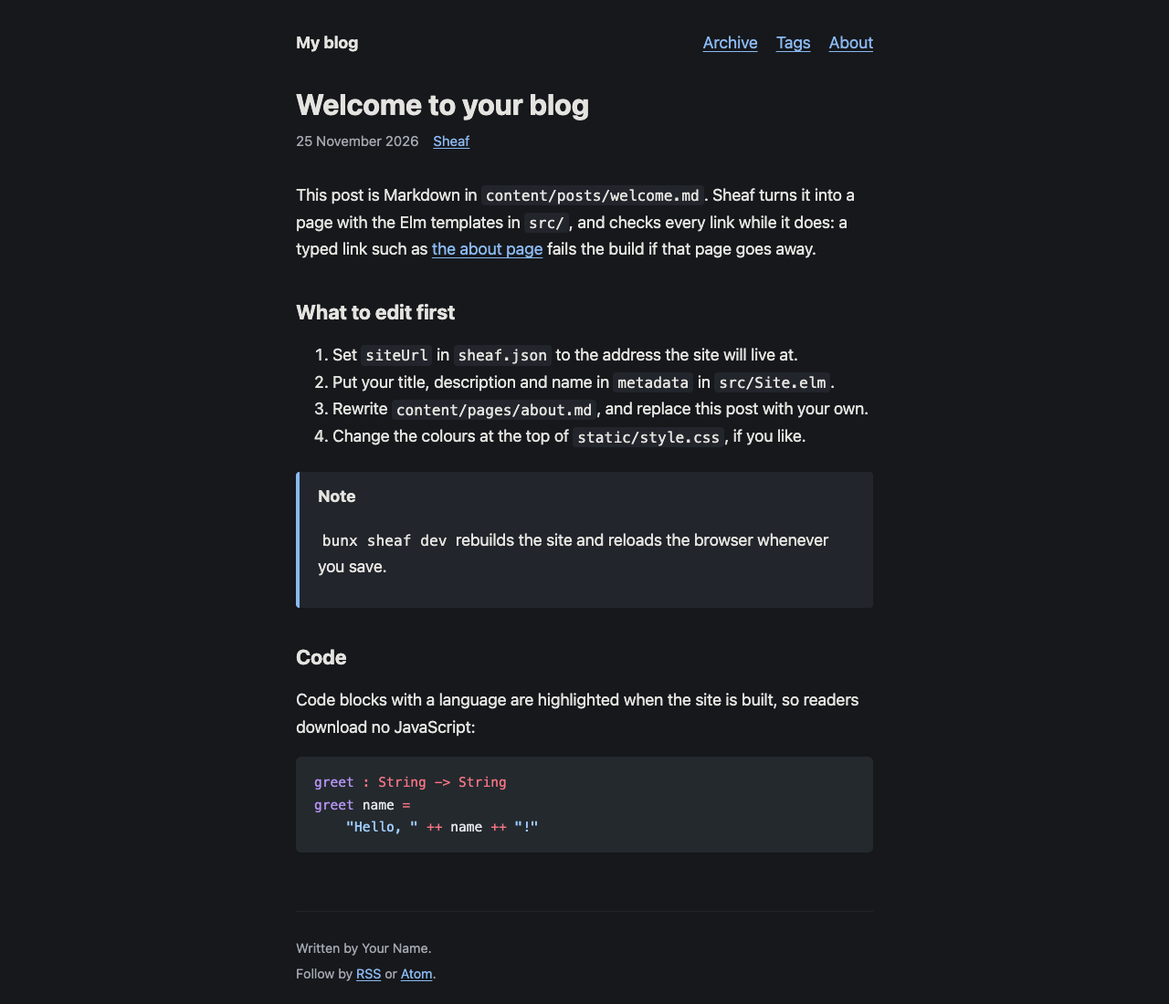
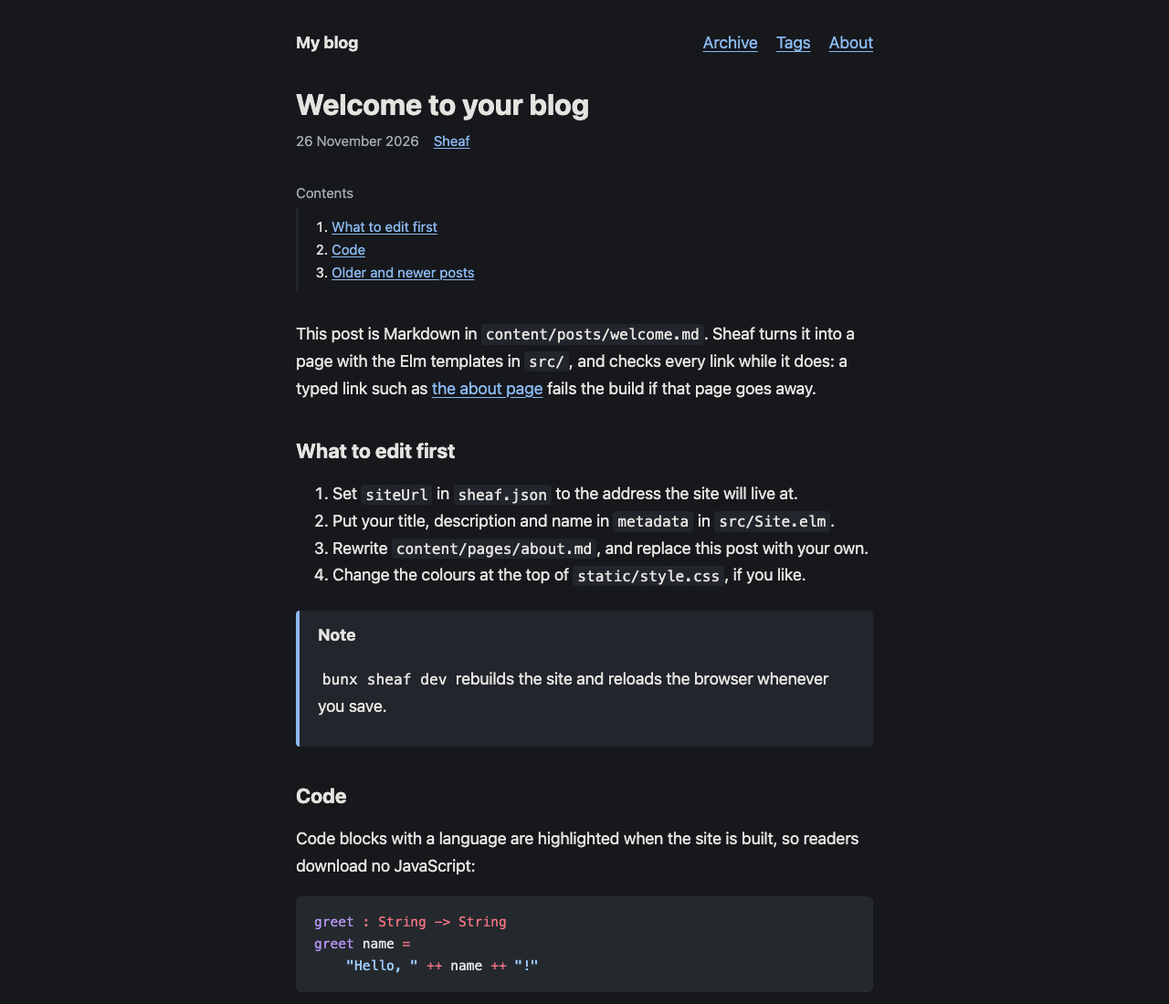
feat(starter): contents, neighbours and heading links
A post with three or more h2 and h3 headings starts with a table of contents,
each h3 under its h2, and every post ends with links to the older and newer
post. A heading's `#` link shows when the heading is hovered or the link has
focus, and always on touch screens.

diff --git a/cli/src/init/starter.generated.ts b/cli/src/init/starter.generated.ts
@@ -17,7 +17,7 @@ export const STARTER: ReadonlyMap<string, string> = new Map([
   ["content/posts/.gitkeep", ""],
   [
     "content/posts/welcome.md",
-    '---\ntitle: Welcome to your blog\ndate: {{today}}\nsummary: What\'s here, and what to change first.\ntags: [Sheaf]\n---\n\nThis post is Markdown in `content/posts/welcome.md`. Sheaf turns it into a\npage with the Elm templates in `src/`, and checks every link while it does: a\ntyped link such as [the about page](pages:about) fails the build if that page\ngoes away.\n\n## What to edit first\n\n1. Set `siteUrl` in `sheaf.json` to the address the site will live at.\n2. Put your title, description and name in `metadata` in `src/Site.elm`.\n3. Rewrite `content/pages/about.md`, and replace this post with your own.\n4. Change the colours at the top of `static/style.css`, if you like.\n\n:::callout{kind=note}\n`bunx sheaf dev` rebuilds the site and reloads the browser whenever you save.\n:::\n\n## Code\n\nCode blocks with a language are highlighted when the site is built, so readers\ndownload no JavaScript:\n\n```elm\ngreet : String -> String\ngreet name =\n    "Hello, " ++ name ++ "!"\n```\n',
+    '---\ntitle: Welcome to your blog\ndate: {{today}}\nsummary: What\'s here, and what to change first.\ntags: [Sheaf]\n---\n\nThis post is Markdown in `content/posts/welcome.md`. Sheaf turns it into a\npage with the Elm templates in `src/`, and checks every link while it does: a\ntyped link such as [the about page](pages:about) fails the build if that page\ngoes away.\n\n## What to edit first\n\n1. Set `siteUrl` in `sheaf.json` to the address the site will live at.\n2. Put your title, description and name in `metadata` in `src/Site.elm`.\n3. Rewrite `content/pages/about.md`, and replace this post with your own.\n4. Change the colours at the top of `static/style.css`, if you like.\n\n:::callout{kind=note}\n`bunx sheaf dev` rebuilds the site and reloads the browser whenever you save.\n:::\n\n## Code\n\nCode blocks with a language are highlighted when the site is built, so readers\ndownload no JavaScript:\n\n```elm\ngreet : String -> String\ngreet name =\n    "Hello, " ++ name ++ "!"\n```\n\n## Older and newer posts\n\nA post with three or more sections, like this one, starts with a list of them,\nand every post ends with links to the posts written before and after it. Each\nheading has a `#` link to itself, shown when you point at the heading, for\nsharing one section.\n',
   ],
   ["gitignore", ".sheaf/\ndist/\nelm-stuff/\nnode_modules/\n"],
   ["sheaf.json", '{ "siteUrl": "https://example.com/" }\n'],
@@ -35,7 +35,7 @@ export const STARTER: ReadonlyMap<string, string> = new Map([
   ],
   [
     "src/Theme/Pages.elm",
-    'module Theme.Pages exposing\n    ( Post, Titled\n    , post, page, index, tag, tags, archive, notFound\n    )\n\n{-| A template for each kind of page the blog has.\n\nThe templates ask only for the frontmatter they show, so `Site.elm` can decode\nmore fields without changing them.\n\n@docs Post, Titled\n@docs post, page, index, tag, tags, archive, notFound\n\n-}\n\nimport Sheaf\nimport Sheaf.Blog as Blog\nimport Sheaf.Date as Date exposing (Date)\nimport Sheaf.Document exposing (Document)\nimport Sheaf.Head as Head\nimport Sheaf.Html exposing (Html, a, article, h1, h2, header, li, nav, ol, p, span, text, time, ul)\nimport Sheaf.Html.Attributes exposing (attribute, class, datetime, href, siteHref)\nimport Sheaf.Image as Image\nimport Sheaf.Route exposing (Group, Listing, Page, Pagination)\nimport Theme.Layout as Layout\nimport Time\n\n\n{-| The frontmatter of a post, as these templates read it.\n-}\ntype alias Post meta =\n    { meta | title : String, summary : Maybe String, tags : List String }\n\n\n{-| The frontmatter of a page, as these templates read it.\n-}\ntype alias Titled meta =\n    { meta | title : String }\n\n\n\n-- PAGES\n\n\n{-| A post, at `/posts/<slug>/`.\n-}\npost : Sheaf.Metadata -> Document (Post meta) -> Page\npost site document =\n    Layout.view site\n        { title = titled site document.meta.title\n        , description = Maybe.withDefault site.description document.meta.summary\n        , head = [ preview document ]\n        , body =\n            [ article [ class "post" ]\n                (header []\n                    [ h1 [] [ text document.meta.title ]\n                    , p [ class "byline" ] (published document :: tagLinks document.meta.tags)\n                    ]\n                    :: cover document\n                    :: document.body\n                )\n            ]\n        }\n\n\n{-| A page from `content/pages/`, at `/<slug>/`.\n-}\npage : Sheaf.Metadata -> Document (Titled meta) -> Page\npage site document =\n    Layout.view site\n        { title = titled site document.meta.title\n        , description = site.description\n        , head = []\n        , body = [ article [] (h1 [] [ text document.meta.title ] :: document.body) ]\n        }\n\n\n{-| The newest posts, at `/`, then `/page/2/` and on.\n-}\nindex : Sheaf.Metadata -> Listing (Post meta) -> Page\nindex site { items, pagination } =\n    let\n        ( title, heading ) =\n            if pagination.page == 1 then\n                ( site.title, "Latest posts" )\n\n            else\n                let\n                    paged : String\n                    paged =\n                        "Posts, page " ++ String.fromInt pagination.page ++ " of " ++ String.fromInt pagination.pages\n                in\n                ( titled site paged, paged )\n    in\n    Layout.view site\n        { title = title\n        , description = site.description\n        , head = []\n        , body = [ h1 [] [ text heading ], postList items, pageLinks pagination ]\n        }\n\n\n{-| The posts with one tag, at `/tags/<tag>/`.\n-}\ntag : Sheaf.Metadata -> String -> Listing (Post meta) -> Page\ntag site name { items, pagination } =\n    Layout.view site\n        { title = titled site ("Posts tagged " ++ name)\n        , description = "Posts tagged " ++ name ++ " on " ++ site.title ++ "."\n        , head = []\n        , body = [ h1 [] [ text ("Posts tagged " ++ name) ], postList items, pageLinks pagination ]\n        }\n\n\n{-| Every tag, at `/tags/`.\n-}\ntags : Sheaf.Metadata -> List (Group (Post meta)) -> Page\ntags site groups =\n    Layout.view site\n        { title = titled site "Tags"\n        , description = "Every tag on " ++ site.title ++ "."\n        , head = []\n        , body =\n            [ h1 [] [ text "Tags" ]\n            , ul [ class "tag-index" ] (List.map tagEntry groups)\n            ]\n        }\n\n\n{-| Every post, at `/archive/`.\n-}\narchive : Sheaf.Metadata -> List (Document (Post meta)) -> Page\narchive site items =\n    Layout.view site\n        { title = titled site "Archive"\n        , description = "Every post on " ++ site.title ++ "."\n        , head = []\n        , body =\n            [ h1 [] [ text "Archive" ]\n            , ol [ class "archive" ] (List.map archiveEntry items)\n            ]\n        }\n\n\n{-| The page shown for any address with no page.\n-}\nnotFound : Sheaf.Metadata -> Page\nnotFound site =\n    Layout.view site\n        { title = titled site "Page not found"\n        , description = site.description\n        , head = []\n        , body =\n            [ h1 [] [ text "Page not found" ]\n            , p [] [ text "Nothing lives at this address. Try the ", a [ siteHref "/" ] [ text "home page" ], text "." ]\n            ]\n        }\n\n\n\n-- PARTS\n\n\ntitled : Sheaf.Metadata -> String -> String\ntitled site name =\n    name ++ " · " ++ site.title\n\n\npreview : Document (Post meta) -> Head.Tag\npreview document =\n    Head.openGraph\n        { title = document.meta.title\n        , description = document.meta.summary\n        , image = Maybe.map Image.src document.image\n        , kind =\n            case document.date of\n                Just date ->\n                    Head.Article { published = date, modified = document.updated }\n\n                Nothing ->\n                    Head.Website\n        }\n\n\ncover : Document meta -> Html\ncover document =\n    case document.image of\n        Just image ->\n            -- The cover is at the top of the page, where lazy loading only delays it.\n            Image.view [ attribute "loading" "eager" ] image\n\n        Nothing ->\n            text ""\n\n\npostList : List (Document (Post meta)) -> Html\npostList items =\n    if List.isEmpty items then\n        p [] [ text "No posts yet." ]\n\n    else\n        ol [ class "post-list" ] (List.map postSummary items)\n\n\npostSummary : Document (Post meta) -> Html\npostSummary item =\n    li []\n        [ h2 [] [ Sheaf.link item.ref [ text item.meta.title ] ]\n        , published item\n        , case item.meta.summary of\n            Just summary ->\n                p [] [ text summary ]\n\n            Nothing ->\n                text ""\n        ]\n\n\narchiveEntry : Document (Post meta) -> Html\narchiveEntry item =\n    li [] [ published item, Sheaf.link item.ref [ text item.meta.title ] ]\n\n\ntagLinks : List String -> List Html\ntagLinks names =\n    List.map (\\name -> span [ class "tag" ] [ Blog.tagLink name [ text name ] ]) names\n\n\ntagEntry : Group (Post meta) -> Html\ntagEntry group =\n    li []\n        [ Blog.tagLink group.name [ text group.name ]\n        , text (" (" ++ String.fromInt (List.length group.items) ++ ")")\n        ]\n\n\npublished : Document meta -> Html\npublished document =\n    case document.date of\n        Just date ->\n            time [ datetime (Date.toIsoDate date) ] [ text (longDate date) ]\n\n        Nothing ->\n            text ""\n\n\n{-| Such as "2 January 2026".\n-}\nlongDate : Date -> String\nlongDate date =\n    String.fromInt (Date.day date) ++ " " ++ monthName (Date.month date) ++ " " ++ String.fromInt (Date.year date)\n\n\nmonthName : Time.Month -> String\nmonthName month =\n    case month of\n        Time.Jan ->\n            "January"\n\n        Time.Feb ->\n            "February"\n\n        Time.Mar ->\n            "March"\n\n        Time.Apr ->\n            "April"\n\n        Time.May ->\n            "May"\n\n        Time.Jun ->\n            "June"\n\n        Time.Jul ->\n            "July"\n\n        Time.Aug ->\n            "August"\n\n        Time.Sep ->\n            "September"\n\n        Time.Oct ->\n            "October"\n\n        Time.Nov ->\n            "November"\n\n        Time.Dec ->\n            "December"\n\n\npageLinks : Pagination -> Html\npageLinks pagination =\n    if pagination.pages <= 1 then\n        text ""\n\n    else\n        nav [ class "pagination", attribute "aria-label" "Pages" ]\n            [ pageLink "Newer posts" pagination.previous\n            , pageLink "Older posts" pagination.next\n            ]\n\n\npageLink : String -> Maybe String -> Html\npageLink label url =\n    case url of\n        Just address ->\n            a [ href address ] [ text label ]\n\n        Nothing ->\n            text ""\n',
+    'module Theme.Pages exposing\n    ( Post, Titled\n    , post, page, index, tag, tags, archive, notFound\n    )\n\n{-| A template for each kind of page the blog has.\n\nThe templates ask only for the frontmatter they show, so `Site.elm` can decode\nmore fields without changing them.\n\n@docs Post, Titled\n@docs post, page, index, tag, tags, archive, notFound\n\n-}\n\nimport Sheaf\nimport Sheaf.Blog as Blog\nimport Sheaf.Date as Date exposing (Date)\nimport Sheaf.Document exposing (Document, Heading, Neighbour)\nimport Sheaf.Head as Head\nimport Sheaf.Html exposing (Html, a, article, h1, h2, header, li, nav, ol, p, span, text, time, ul)\nimport Sheaf.Html.Attributes exposing (attribute, class, datetime, href, siteHref)\nimport Sheaf.Image as Image\nimport Sheaf.Route exposing (Group, Listing, Page, Pagination)\nimport Theme.Layout as Layout\nimport Time\n\n\n{-| The frontmatter of a post, as these templates read it.\n-}\ntype alias Post meta =\n    { meta | title : String, summary : Maybe String, tags : List String }\n\n\n{-| The frontmatter of a page, as these templates read it.\n-}\ntype alias Titled meta =\n    { meta | title : String }\n\n\n\n-- PAGES\n\n\n{-| A post, at `/posts/<slug>/`: its contents when it has three or more\nsections, and links to the older and newer posts at the end.\n-}\npost : Sheaf.Metadata -> Document (Post meta) -> Page\npost site document =\n    Layout.view site\n        { title = titled site document.meta.title\n        , description = Maybe.withDefault site.description document.meta.summary\n        , head = [ preview document ]\n        , body =\n            [ article [ class "post" ]\n                (header []\n                    [ h1 [] [ text document.meta.title ]\n                    , p [ class "byline" ] (published document :: tagLinks document.meta.tags)\n                    ]\n                    :: cover document\n                    :: contents document.headings\n                    :: document.body\n                )\n            , neighbours document\n            ]\n        }\n\n\n{-| A page from `content/pages/`, at `/<slug>/`.\n-}\npage : Sheaf.Metadata -> Document (Titled meta) -> Page\npage site document =\n    Layout.view site\n        { title = titled site document.meta.title\n        , description = site.description\n        , head = []\n        , body = [ article [] (h1 [] [ text document.meta.title ] :: document.body) ]\n        }\n\n\n{-| The newest posts, at `/`, then `/page/2/` and on.\n-}\nindex : Sheaf.Metadata -> Listing (Post meta) -> Page\nindex site { items, pagination } =\n    let\n        ( title, heading ) =\n            if pagination.page == 1 then\n                ( site.title, "Latest posts" )\n\n            else\n                let\n                    paged : String\n                    paged =\n                        "Posts, page " ++ String.fromInt pagination.page ++ " of " ++ String.fromInt pagination.pages\n                in\n                ( titled site paged, paged )\n    in\n    Layout.view site\n        { title = title\n        , description = site.description\n        , head = []\n        , body = [ h1 [] [ text heading ], postList items, pageLinks pagination ]\n        }\n\n\n{-| The posts with one tag, at `/tags/<tag>/`.\n-}\ntag : Sheaf.Metadata -> String -> Listing (Post meta) -> Page\ntag site name { items, pagination } =\n    Layout.view site\n        { title = titled site ("Posts tagged " ++ name)\n        , description = "Posts tagged " ++ name ++ " on " ++ site.title ++ "."\n        , head = []\n        , body = [ h1 [] [ text ("Posts tagged " ++ name) ], postList items, pageLinks pagination ]\n        }\n\n\n{-| Every tag, at `/tags/`.\n-}\ntags : Sheaf.Metadata -> List (Group (Post meta)) -> Page\ntags site groups =\n    Layout.view site\n        { title = titled site "Tags"\n        , description = "Every tag on " ++ site.title ++ "."\n        , head = []\n        , body =\n            [ h1 [] [ text "Tags" ]\n            , ul [ class "tag-index" ] (List.map tagEntry groups)\n            ]\n        }\n\n\n{-| Every post, at `/archive/`.\n-}\narchive : Sheaf.Metadata -> List (Document (Post meta)) -> Page\narchive site items =\n    Layout.view site\n        { title = titled site "Archive"\n        , description = "Every post on " ++ site.title ++ "."\n        , head = []\n        , body =\n            [ h1 [] [ text "Archive" ]\n            , ol [ class "archive" ] (List.map archiveEntry items)\n            ]\n        }\n\n\n{-| The page shown for any address with no page.\n-}\nnotFound : Sheaf.Metadata -> Page\nnotFound site =\n    Layout.view site\n        { title = titled site "Page not found"\n        , description = site.description\n        , head = []\n        , body =\n            [ h1 [] [ text "Page not found" ]\n            , p [] [ text "Nothing lives at this address. Try the ", a [ siteHref "/" ] [ text "home page" ], text "." ]\n            ]\n        }\n\n\n\n-- PARTS\n\n\ntitled : Sheaf.Metadata -> String -> String\ntitled site name =\n    name ++ " · " ++ site.title\n\n\npreview : Document (Post meta) -> Head.Tag\npreview document =\n    Head.openGraph\n        { title = document.meta.title\n        , description = document.meta.summary\n        , image = Maybe.map Image.src document.image\n        , kind =\n            case document.date of\n                Just date ->\n                    Head.Article { published = date, modified = document.updated }\n\n                Nothing ->\n                    Head.Website\n        }\n\n\ncover : Document meta -> Html\ncover document =\n    case document.image of\n        Just image ->\n            -- The cover is at the top of the page, where lazy loading only delays it.\n            Image.view [ attribute "loading" "eager" ] image\n\n        Nothing ->\n            text ""\n\n\n{-| A post\'s h2 and h3 headings, each h3 under the h2 before it, linked to\nwhere they are. A post with fewer than three has none.\n-}\ncontents : List Heading -> Html\ncontents headings =\n    let\n        listed : List Heading\n        listed =\n            List.filter (\\heading -> (heading.depth == 2 || heading.depth == 3) && heading.id /= "") headings\n    in\n    if List.length listed < 3 then\n        text ""\n\n    else\n        nav [ attribute "aria-label" "Contents" ]\n            [ p [ class "contents-label" ] [ text "Contents" ]\n            , ol [ class "contents" ] (List.map contentsEntry (sectionsOf listed))\n            ]\n\n\ntype alias Section =\n    { heading : Heading\n    , subsections : List Heading\n    }\n\n\n{-| Each h2 with the h3s after it. An h3 before the first h2 is a section of\nits own.\n-}\nsectionsOf : List Heading -> List Section\nsectionsOf headings =\n    let\n        step : Heading -> ( List Heading, List Section ) -> ( List Heading, List Section )\n        step heading ( subsections, sections ) =\n            if heading.depth == 2 then\n                ( [], { heading = heading, subsections = subsections } :: sections )\n\n            else\n                ( heading :: subsections, sections )\n\n        ( leading, grouped ) =\n            List.foldr step ( [], [] ) headings\n    in\n    List.map (\\heading -> { heading = heading, subsections = [] }) leading ++ grouped\n\n\ncontentsEntry : Section -> Html\ncontentsEntry section =\n    if List.isEmpty section.subsections then\n        li [] [ headingLink section.heading ]\n\n    else\n        li []\n            [ headingLink section.heading\n            , ol [] (List.map (\\subsection -> li [] [ headingLink subsection ]) section.subsections)\n            ]\n\n\nheadingLink : Heading -> Html\nheadingLink heading =\n    a [ href ("#" ++ heading.id) ] [ text heading.text ]\n\n\n{-| Links to the posts before and after this one, newer first, as the pages of\nposts are.\n-}\nneighbours : Document (Post meta) -> Html\nneighbours document =\n    case ( document.next, document.previous ) of\n        ( Nothing, Nothing ) ->\n            text ""\n\n        ( newer, older ) ->\n            nav [ attribute "aria-label" "More posts" ]\n                [ ul [ class "neighbours" ]\n                    [ neighbourLink "newer" "Newer" newer\n                    , neighbourLink "older" "Older" older\n                    ]\n                ]\n\n\nneighbourLink : String -> String -> Maybe (Neighbour (Post meta)) -> Html\nneighbourLink kind label neighbour =\n    case neighbour of\n        Just other ->\n            li [ class kind ]\n                [ span [ class "neighbour-label" ] [ text label ]\n                , text " "\n                , Sheaf.link other.ref [ text other.meta.title ]\n                ]\n\n        Nothing ->\n            text ""\n\n\npostList : List (Document (Post meta)) -> Html\npostList items =\n    if List.isEmpty items then\n        p [] [ text "No posts yet." ]\n\n    else\n        ol [ class "post-list" ] (List.map postSummary items)\n\n\npostSummary : Document (Post meta) -> Html\npostSummary item =\n    li []\n        [ h2 [] [ Sheaf.link item.ref [ text item.meta.title ] ]\n        , published item\n        , case item.meta.summary of\n            Just summary ->\n                p [] [ text summary ]\n\n            Nothing ->\n                text ""\n        ]\n\n\narchiveEntry : Document (Post meta) -> Html\narchiveEntry item =\n    li [] [ published item, Sheaf.link item.ref [ text item.meta.title ] ]\n\n\ntagLinks : List String -> List Html\ntagLinks names =\n    List.map (\\name -> span [ class "tag" ] [ Blog.tagLink name [ text name ] ]) names\n\n\ntagEntry : Group (Post meta) -> Html\ntagEntry group =\n    li []\n        [ Blog.tagLink group.name [ text group.name ]\n        , text (" (" ++ String.fromInt (List.length group.items) ++ ")")\n        ]\n\n\npublished : Document meta -> Html\npublished document =\n    case document.date of\n        Just date ->\n            time [ datetime (Date.toIsoDate date) ] [ text (longDate date) ]\n\n        Nothing ->\n            text ""\n\n\n{-| Such as "2 January 2026".\n-}\nlongDate : Date -> String\nlongDate date =\n    String.fromInt (Date.day date) ++ " " ++ monthName (Date.month date) ++ " " ++ String.fromInt (Date.year date)\n\n\nmonthName : Time.Month -> String\nmonthName month =\n    case month of\n        Time.Jan ->\n            "January"\n\n        Time.Feb ->\n            "February"\n\n        Time.Mar ->\n            "March"\n\n        Time.Apr ->\n            "April"\n\n        Time.May ->\n            "May"\n\n        Time.Jun ->\n            "June"\n\n        Time.Jul ->\n            "July"\n\n        Time.Aug ->\n            "August"\n\n        Time.Sep ->\n            "September"\n\n        Time.Oct ->\n            "October"\n\n        Time.Nov ->\n            "November"\n\n        Time.Dec ->\n            "December"\n\n\npageLinks : Pagination -> Html\npageLinks pagination =\n    if pagination.pages <= 1 then\n        text ""\n\n    else\n        nav [ class "pagination", attribute "aria-label" "Pages" ]\n            [ pageLink "Newer posts" pagination.previous\n            , pageLink "Older posts" pagination.next\n            ]\n\n\npageLink : String -> Maybe String -> Html\npageLink label url =\n    case url of\n        Just address ->\n            a [ href address ] [ text label ]\n\n        Nothing ->\n            text ""\n',
   ],
   [
     "static/favicon.svg",
@@ -43,6 +43,6 @@ export const STARTER: ReadonlyMap<string, string> = new Map([
   ],
   [
     "static/style.css",
-    '/*\n * Contrast ratios (WCAG 2.1; AA asks 4.5:1 for text):\n *\n *               on --bg   on --surface\n *   light\n *     --text     15.81     14.22\n *     --muted     6.25      5.63\n *     --accent    6.28      5.65\n *     --warning   6.39      5.75\n *   dark\n *     --text     13.84     11.96\n *     --muted     7.36      6.36\n *     --accent    8.63      7.46\n *     --warning   8.52      7.36\n *\n * Recompute them after changing a colour.\n */\n:root {\n  color-scheme: light dark;\n  --bg: #fbfaf7;\n  --surface: #f0eee8;\n  --text: #1d1f23;\n  --muted: #595e66;\n  --accent: #245f9e;\n  --warning: #8f4a00;\n  --measure: 42rem;\n  --sans: system-ui, -apple-system, "Segoe UI", Roboto, sans-serif;\n  --mono: ui-monospace, "SF Mono", Menlo, Consolas, monospace;\n}\n\n@media (prefers-color-scheme: dark) {\n  :root {\n    --bg: #16181c;\n    --surface: #22252b;\n    --text: #e4e3df;\n    --muted: #a2a7b0;\n    --accent: #8ab8f0;\n    --warning: #e9a65a;\n  }\n}\n\n@media (prefers-reduced-motion: no-preference) {\n  @view-transition {\n    navigation: auto;\n  }\n}\n\n/* Page */\n\n*,\n*::before,\n*::after {\n  box-sizing: border-box;\n}\n\nbody {\n  max-width: var(--measure);\n  margin: 0 auto;\n  padding: 0 1.25rem;\n  background: var(--bg);\n  color: var(--text);\n  font: 1.125rem / 1.65 var(--sans);\n  overflow-wrap: break-word;\n}\n\na {\n  color: var(--accent);\n  text-underline-offset: 0.15em;\n}\n\n:focus-visible {\n  outline: 2px solid var(--accent);\n  outline-offset: 2px;\n}\n\n.skip-link {\n  position: absolute;\n  left: 1rem;\n  top: -10rem;\n  padding: 0.5rem 1rem;\n  background: var(--surface);\n}\n\n.skip-link:focus {\n  top: 1rem;\n}\n\n.site-header {\n  display: flex;\n  flex-wrap: wrap;\n  align-items: baseline;\n  justify-content: space-between;\n  gap: 0.5rem 1.5rem;\n  padding: 2rem 0;\n}\n\n.site-title {\n  color: var(--text);\n  font-weight: 700;\n  text-decoration: none;\n}\n\n.site-header ul {\n  display: flex;\n  gap: 1.25rem;\n  margin: 0;\n  padding: 0;\n  list-style: none;\n}\n\n.site-footer {\n  margin-top: 4rem;\n  padding: 1.5rem 0 3rem;\n  border-top: 1px solid var(--surface);\n  color: var(--muted);\n  font-size: 0.9rem;\n}\n\n.site-footer p {\n  margin: 0.25rem 0;\n}\n\n/* Text */\n\nh1,\nh2,\nh3 {\n  line-height: 1.25;\n  text-wrap: balance;\n}\n\nh1 {\n  font-size: 2rem;\n  margin: 0 0 0.5rem;\n}\n\nh2 {\n  font-size: 1.4rem;\n  margin: 2.5rem 0 0.75rem;\n}\n\nimg,\npicture,\nsvg,\nvideo {\n  max-width: 100%;\n  height: auto;\n}\n\nblockquote {\n  margin: 1.5rem 0;\n  padding-left: 1.25rem;\n  border-left: 3px solid var(--surface);\n  color: var(--muted);\n}\n\ntable {\n  width: 100%;\n  border-collapse: collapse;\n}\n\nth,\ntd {\n  padding: 0.4rem 0.6rem;\n  border-bottom: 1px solid var(--surface);\n  text-align: left;\n}\n\n/* Code */\n\ncode,\npre {\n  font-family: var(--mono);\n  font-size: 0.9em;\n}\n\n:not(pre) > code {\n  padding: 0.1em 0.3em;\n  border-radius: 4px;\n  background: var(--surface);\n}\n\npre {\n  padding: 1rem 1.25rem;\n  overflow-x: auto;\n  border-radius: 6px;\n  line-height: 1.5;\n}\n\n/* Shiki\'s documented CSS for dark themes; the light ones are inline. */\n@media (prefers-color-scheme: dark) {\n  /* Shiki sets the light colours inline, which only !important overrides. */\n  .shiki,\n  .shiki span {\n    color: var(--shiki-dark) !important;\n    background-color: var(--shiki-dark-bg) !important;\n    font-style: var(--shiki-dark-font-style) !important;\n    font-weight: var(--shiki-dark-font-weight) !important;\n    text-decoration: var(--shiki-dark-text-decoration) !important;\n  }\n}\n\n/* Posts */\n\n.byline {\n  display: flex;\n  flex-wrap: wrap;\n  gap: 0.25rem 1rem;\n  margin: 0 0 2rem;\n  color: var(--muted);\n  font-size: 0.95rem;\n}\n\n.post-list,\n.archive,\n.tag-index {\n  padding: 0;\n  list-style: none;\n}\n\n.post-list li {\n  margin-bottom: 2rem;\n}\n\n.post-list h2 {\n  margin: 0;\n}\n\n.post-list time,\n.archive time {\n  color: var(--muted);\n  font-size: 0.95rem;\n}\n\n.post-list p {\n  margin: 0.25rem 0 0;\n}\n\n.archive li {\n  display: flex;\n  flex-wrap: wrap;\n  gap: 0 1rem;\n  margin-bottom: 0.5rem;\n}\n\n.archive time {\n  min-width: 10rem;\n}\n\n.pagination {\n  display: flex;\n  justify-content: space-between;\n  margin-top: 2rem;\n}\n\n.callout {\n  margin: 1.5rem 0;\n  padding: 0.75rem 1.25rem;\n  border-left: 4px solid var(--accent);\n  border-radius: 4px;\n  background: var(--surface);\n}\n\n.callout.warning {\n  border-left-color: var(--warning);\n}\n\n.callout-label {\n  margin: 0;\n}\n\n.callout.warning .callout-label {\n  color: var(--warning);\n}\n',
+    '/*\n * Contrast ratios (WCAG 2.1; AA asks 4.5:1 for text):\n *\n *               on --bg   on --surface\n *   light\n *     --text     15.81     14.22\n *     --muted     6.25      5.63\n *     --accent    6.28      5.65\n *     --warning   6.39      5.75\n *   dark\n *     --text     13.84     11.96\n *     --muted     7.36      6.36\n *     --accent    8.63      7.46\n *     --warning   8.52      7.36\n *\n * Recompute them after changing a colour.\n */\n:root {\n  color-scheme: light dark;\n  --bg: #fbfaf7;\n  --surface: #f0eee8;\n  --text: #1d1f23;\n  --muted: #595e66;\n  --accent: #245f9e;\n  --warning: #8f4a00;\n  --measure: 42rem;\n  --sans: system-ui, -apple-system, "Segoe UI", Roboto, sans-serif;\n  --mono: ui-monospace, "SF Mono", Menlo, Consolas, monospace;\n}\n\n@media (prefers-color-scheme: dark) {\n  :root {\n    --bg: #16181c;\n    --surface: #22252b;\n    --text: #e4e3df;\n    --muted: #a2a7b0;\n    --accent: #8ab8f0;\n    --warning: #e9a65a;\n  }\n}\n\n@media (prefers-reduced-motion: no-preference) {\n  @view-transition {\n    navigation: auto;\n  }\n}\n\n/* Page */\n\n*,\n*::before,\n*::after {\n  box-sizing: border-box;\n}\n\nbody {\n  max-width: var(--measure);\n  margin: 0 auto;\n  padding: 0 1.25rem;\n  background: var(--bg);\n  color: var(--text);\n  font: 1.125rem / 1.65 var(--sans);\n  overflow-wrap: break-word;\n}\n\na {\n  color: var(--accent);\n  text-underline-offset: 0.15em;\n}\n\n:focus-visible {\n  outline: 2px solid var(--accent);\n  outline-offset: 2px;\n}\n\n.skip-link {\n  position: absolute;\n  left: 1rem;\n  top: -10rem;\n  padding: 0.5rem 1rem;\n  background: var(--surface);\n}\n\n.skip-link:focus {\n  top: 1rem;\n}\n\n.site-header {\n  display: flex;\n  flex-wrap: wrap;\n  align-items: baseline;\n  justify-content: space-between;\n  gap: 0.5rem 1.5rem;\n  padding: 2rem 0;\n}\n\n.site-title {\n  color: var(--text);\n  font-weight: 700;\n  text-decoration: none;\n}\n\n.site-header ul {\n  display: flex;\n  gap: 1.25rem;\n  margin: 0;\n  padding: 0;\n  list-style: none;\n}\n\n.site-footer {\n  margin-top: 4rem;\n  padding: 1.5rem 0 3rem;\n  border-top: 1px solid var(--surface);\n  color: var(--muted);\n  font-size: 0.9rem;\n}\n\n.site-footer p {\n  margin: 0.25rem 0;\n}\n\n/* Text */\n\nh1,\nh2,\nh3 {\n  line-height: 1.25;\n  text-wrap: balance;\n}\n\nh1 {\n  font-size: 2rem;\n  margin: 0 0 0.5rem;\n}\n\nh2 {\n  font-size: 1.4rem;\n  margin: 2.5rem 0 0.75rem;\n}\n\n/* Hidden with opacity, not display, so that it can still take focus. */\n.heading-link {\n  color: var(--muted);\n  text-decoration: none;\n  opacity: 0;\n}\n\n:is(h1, h2, h3, h4, h5, h6):hover .heading-link,\n.heading-link:focus-visible {\n  opacity: 1;\n}\n\n/* Touch screens have no hover to reveal it. */\n@media (hover: none) {\n  .heading-link {\n    opacity: 1;\n  }\n}\n\nimg,\npicture,\nsvg,\nvideo {\n  max-width: 100%;\n  height: auto;\n}\n\nblockquote {\n  margin: 1.5rem 0;\n  padding-left: 1.25rem;\n  border-left: 3px solid var(--surface);\n  color: var(--muted);\n}\n\ntable {\n  width: 100%;\n  border-collapse: collapse;\n}\n\nth,\ntd {\n  padding: 0.4rem 0.6rem;\n  border-bottom: 1px solid var(--surface);\n  text-align: left;\n}\n\n/* Code */\n\ncode,\npre {\n  font-family: var(--mono);\n  font-size: 0.9em;\n}\n\n:not(pre) > code {\n  padding: 0.1em 0.3em;\n  border-radius: 4px;\n  background: var(--surface);\n}\n\npre {\n  padding: 1rem 1.25rem;\n  overflow-x: auto;\n  border-radius: 6px;\n  line-height: 1.5;\n}\n\n/* Shiki\'s documented CSS for dark themes; the light ones are inline. */\n@media (prefers-color-scheme: dark) {\n  /* Shiki sets the light colours inline, which only !important overrides. */\n  .shiki,\n  .shiki span {\n    color: var(--shiki-dark) !important;\n    background-color: var(--shiki-dark-bg) !important;\n    font-style: var(--shiki-dark-font-style) !important;\n    font-weight: var(--shiki-dark-font-weight) !important;\n    text-decoration: var(--shiki-dark-text-decoration) !important;\n  }\n}\n\n/* Posts */\n\n.byline {\n  display: flex;\n  flex-wrap: wrap;\n  gap: 0.25rem 1rem;\n  margin: 0 0 2rem;\n  color: var(--muted);\n  font-size: 0.95rem;\n}\n\n.post-list,\n.archive,\n.tag-index {\n  padding: 0;\n  list-style: none;\n}\n\n.post-list li {\n  margin-bottom: 2rem;\n}\n\n.post-list h2 {\n  margin: 0;\n}\n\n.post-list time,\n.archive time {\n  color: var(--muted);\n  font-size: 0.95rem;\n}\n\n.post-list p {\n  margin: 0.25rem 0 0;\n}\n\n.archive li {\n  display: flex;\n  flex-wrap: wrap;\n  gap: 0 1rem;\n  margin-bottom: 0.5rem;\n}\n\n.archive time {\n  min-width: 10rem;\n}\n\n.contents-label {\n  margin: 0;\n  color: var(--muted);\n  font-size: 0.95rem;\n}\n\n.contents {\n  margin: 0.25rem 0 2rem;\n  padding: 0.5rem 0 0.5rem 2.25rem;\n  border-left: 3px solid var(--surface);\n  font-size: 0.95rem;\n}\n\n.contents ol {\n  padding-left: 1.25rem;\n}\n\n.neighbours {\n  display: flex;\n  flex-wrap: wrap;\n  gap: 1rem 2rem;\n  margin: 3rem 0 0;\n  padding: 1.5rem 0 0;\n  border-top: 1px solid var(--surface);\n  list-style: none;\n}\n\n.neighbours li {\n  flex: 1 1 14rem;\n}\n\n.neighbours .older {\n  text-align: right;\n}\n\n.neighbour-label {\n  display: block;\n  color: var(--muted);\n  font-size: 0.9rem;\n}\n\n.pagination {\n  display: flex;\n  justify-content: space-between;\n  margin-top: 2rem;\n}\n\n.callout {\n  margin: 1.5rem 0;\n  padding: 0.75rem 1.25rem;\n  border-left: 4px solid var(--accent);\n  border-radius: 4px;\n  background: var(--surface);\n}\n\n.callout.warning {\n  border-left-color: var(--warning);\n}\n\n.callout-label {\n  margin: 0;\n}\n\n.callout.warning .callout-label {\n  color: var(--warning);\n}\n',
   ],
 ]);

diff --git a/cli/test/templates.test.ts b/cli/test/templates.test.ts
@@ -6,6 +6,7 @@ import {
   readdirSync,
   readFileSync,
   rmSync,
+  writeFileSync,
 } from "node:fs";
 import { tmpdir } from "node:os";
 import { dirname, join } from "node:path";
@@ -37,6 +38,11 @@ describe("the default starter", () => {
 
   beforeAll(async () => {
     root = await initStarter();
+    // A second post, a day older than the welcome post, so each has a neighbour.
+    writeFileSync(
+      join(root, "content/posts/older.md"),
+      "---\ntitle: An older post\ndate: 2026-01-01\n---\n\nHi.\n",
+    );
     built = await build(root, {
       mode: "production",
       now: new Date("2026-01-03T00:00:00Z"),
@@ -72,6 +78,35 @@ describe("the default starter", () => {
     expect(post).toContain('<pre class="shiki"');
     expect(post).toContain('<aside class="callout note">');
     expect(post).toContain('property="og:type" content="article"');
+  });
+
+  test("the welcome post lists its sections", () => {
+    const contents = read("posts/welcome/index.html").match(
+      /<nav aria-label="Contents">.*?<\/nav>/s,
+    )?.[0];
+    expect(contents).toBeDefined();
+    expect(contents).toContain('href="#what-to-edit-first"');
+    expect(contents).toContain('href="#code"');
+    expect(contents).toContain('href="#older-and-newer-posts"');
+  });
+
+  test("a post with few sections has no contents", () => {
+    expect(read("posts/older/index.html")).not.toContain(
+      'aria-label="Contents"',
+    );
+  });
+
+  test("each post links to its older and newer neighbour", () => {
+    const morePosts = (path: string) =>
+      read(path).match(/<nav aria-label="More posts">.*?<\/nav>/s)?.[0] ?? "";
+    expect(morePosts("posts/welcome/index.html")).toContain("Older");
+    expect(morePosts("posts/welcome/index.html")).toContain(
+      'href="/posts/older/"',
+    );
+    expect(morePosts("posts/older/index.html")).toContain("Newer");
+    expect(morePosts("posts/older/index.html")).toContain(
+      'href="/posts/welcome/"',
+    );
   });
 
   test("each feed is linked once from the head", () => {

diff --git a/cli/templates/default/static/style.css b/cli/templates/default/static/style.css
@@ -139,6 +139,25 @@ h2 {
   margin: 2.5rem 0 0.75rem;
 }
 
+/* Hidden with opacity, not display, so that it can still take focus. */
+.heading-link {
+  color: var(--muted);
+  text-decoration: none;
+  opacity: 0;
+}
+
+:is(h1, h2, h3, h4, h5, h6):hover .heading-link,
+.heading-link:focus-visible {
+  opacity: 1;
+}
+
+/* Touch screens have no hover to reveal it. */
+@media (hover: none) {
+  .heading-link {
+    opacity: 1;
+  }
+}
+
 img,
 picture,
 svg,
@@ -245,6 +264,47 @@ pre {
 
 .archive time {
   min-width: 10rem;
+}
+
+.contents-label {
+  margin: 0;
+  color: var(--muted);
+  font-size: 0.95rem;
+}
+
+.contents {
+  margin: 0.25rem 0 2rem;
+  padding: 0.5rem 0 0.5rem 2.25rem;
+  border-left: 3px solid var(--surface);
+  font-size: 0.95rem;
+}
+
+.contents ol {
+  padding-left: 1.25rem;
+}
+
+.neighbours {
+  display: flex;
+  flex-wrap: wrap;
+  gap: 1rem 2rem;
+  margin: 3rem 0 0;
+  padding: 1.5rem 0 0;
+  border-top: 1px solid var(--surface);
+  list-style: none;
+}
+
+.neighbours li {
+  flex: 1 1 14rem;
+}
+
+.neighbours .older {
+  text-align: right;
+}
+
+.neighbour-label {
+  display: block;
+  color: var(--muted);
+  font-size: 0.9rem;
 }
 
 .pagination {

diff --git a/CHANGELOG.md b/CHANGELOG.md
@@ -52,3 +52,14 @@ numbers are those of the npm package `elm-sheaf`.
   `static/favicon.svg`.
 - Diagnostics name the file and line, suggest the closest match, and list
   every problem of a kind at once.
+- `Collection.orderedBy` reads a collection in the order of a number from its
+  documents' frontmatter, instead of by date.
+- `Document.previous` and `Document.next` link a document to its neighbours in
+  its collection, and the starter's posts end with links to the older and
+  newer post.
+- `Document.headings` lists a document's headings, and each heading links to
+  itself with a `#`. The starter's longer posts start with a table of contents.
+- `aliases` in frontmatter keeps a document's old URLs working, with a redirect
+  page at each one.
+- Every build writes a `robots.txt` naming the sitemap, unless the site has its
+  own.

diff --git a/cli/templates/default/content/posts/welcome.md b/cli/templates/default/content/posts/welcome.md
@@ -31,3 +31,10 @@ greet : String -> String
 greet name =
     "Hello, " ++ name ++ "!"
 ```
+
+## Older and newer posts
+
+A post with three or more sections, like this one, starts with a list of them,
+and every post ends with links to the posts written before and after it. Each
+heading has a `#` link to itself, shown when you point at the heading, for
+sharing one section.
